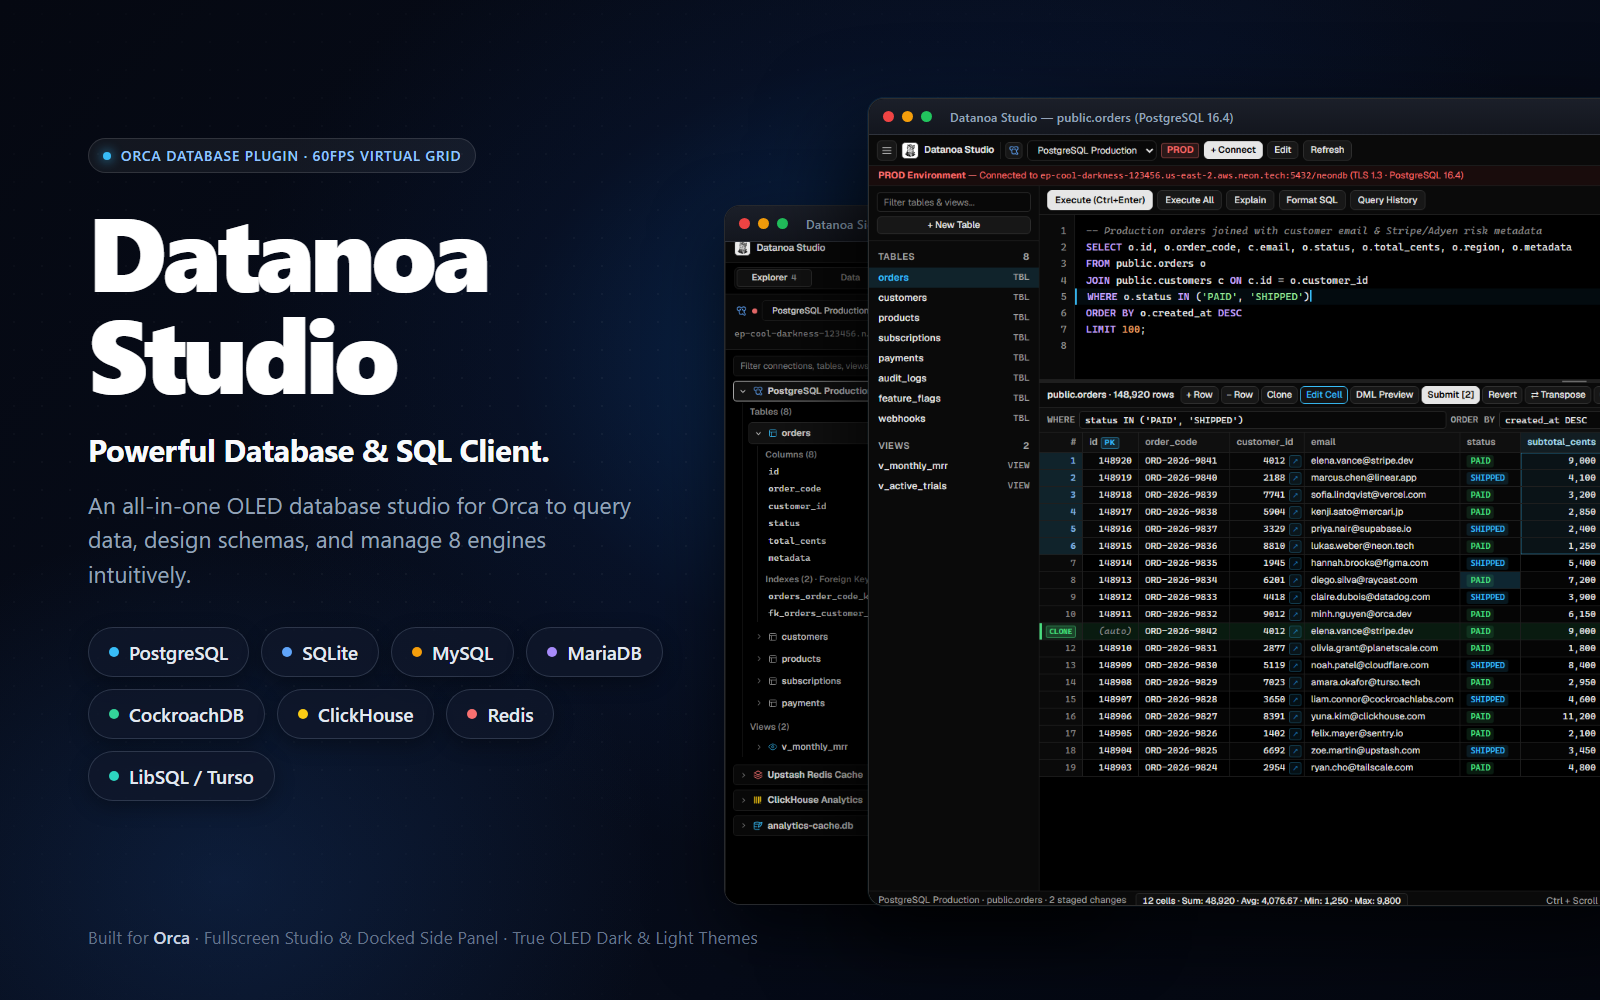
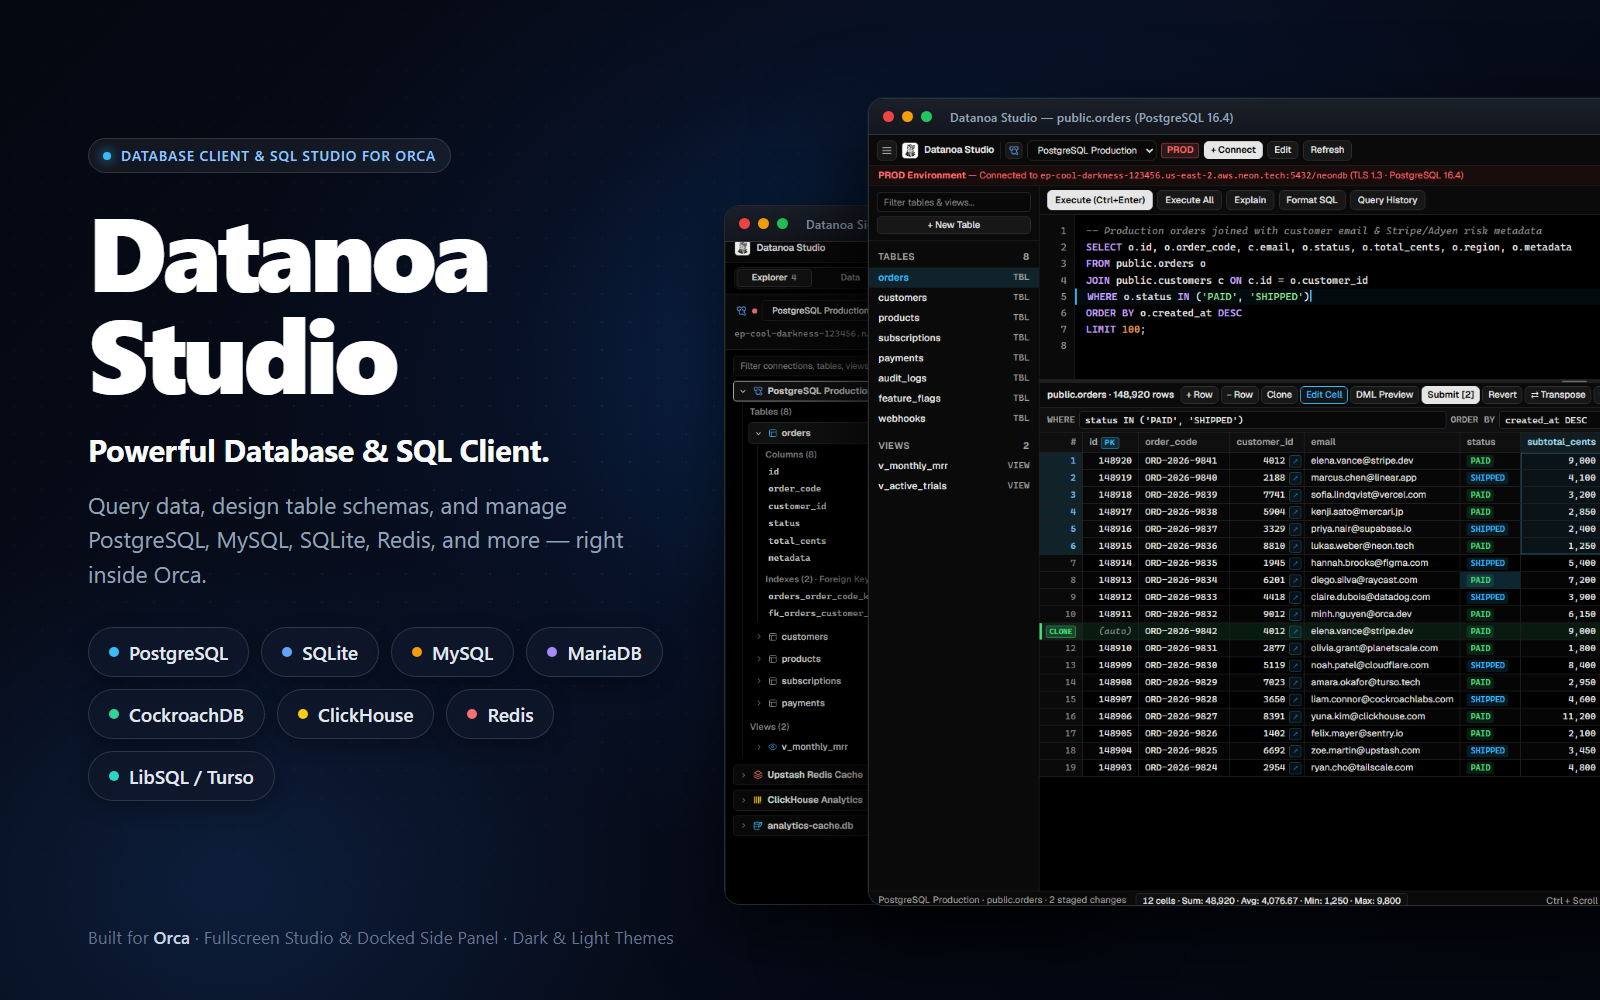
docs: focus plugin description, cover copy, and README on core database client workflows

Changed region(s): [[0.0625, 0.496, 0.4062, 0.589], [0.0938, 0.124, 0.2812, 0.186], [0.3125, 0.93, 0.4688, 0.961]]

diff --git a/README.md b/README.md
@@ -2,35 +2,36 @@
   <img src="assets/icon.png" alt="Datanoa Logo" width="88" height="88" />
 </p>
 
-<h1 align="center">Datanoa — Multi-Engine OLED Database Studio for Orca</h1>
+<h1 align="center">Datanoa — Database Client &amp; SQL Studio for Orca</h1>
 
 <p align="center">
-  <strong>JetBrains DataGrip-grade schema explorer, 60fps virtualized data grid, visual table designer, and multi-statement SQL &amp; Redis console built natively for Orca's True OLED (<code>#000000</code>) and Light themes.</strong>
+  <strong>Browse tables, edit data inline, design schemas visually, and run SQL or Redis queries across 8 database engines — right inside Orca.</strong>
 </p>
 
 <p align="center">
   <a href="https://onorca.dev"><img src="https://img.shields.io/badge/Orca-%3E%3D1.4.248-000000?style=flat-square&logoColor=white&labelColor=141414&color=38bdf8" alt="Orca >=1.4.248" /></a>
-  <a href="#8-supported-database-engines"><img src="https://img.shields.io/badge/Engines-8%20Databases-4ade80?style=flat-square&labelColor=141414" alt="8 Database Engines" /></a>
-  <a href="#60fps-virtualized-grid-bulk-operations--power-utilities"><img src="https://img.shields.io/badge/Virtual%20Grid-60fps-60a5fa?style=flat-square&labelColor=141414" alt="60fps Virtual Grid" /></a>
+  <a href="#8-supported-database-engines"><img src="https://img.shields.io/badge/Databases-8%20Engines-4ade80?style=flat-square&labelColor=141414" alt="8 Database Engines" /></a>
+  <a href="#data-grid-bulk-operations--sql-console"><img src="https://img.shields.io/badge/Editor-SQL%20%26%20Schema%20Designer-60a5fa?style=flat-square&labelColor=141414" alt="SQL & Schema Designer" /></a>
   <a href="LICENSE"><img src="https://img.shields.io/badge/License-MIT-e6e6e6?style=flat-square&labelColor=141414" alt="MIT License" /></a>
   <a href="https://github.com/Thanhh2615/datanoa/issues/new/choose"><img src="https://img.shields.io/badge/Feedback-Report%20Bug%20%2F%20Request%20Feature-fbbf24?style=flat-square&labelColor=141414" alt="Report Bug / Request Feature" /></a>
 </p>
 
 <p align="center">
-  <img src="images/cover.png" alt="Datanoa Studio Split View — OLED PostgreSQL Console, 60fps Virtual Data Grid, Multi-Cell Aggregates & JSON Value Inspector" width="100%" />
+  <img src="images/cover.png" alt="Datanoa Studio — Database Client and SQL Studio for Orca" width="100%" />
 </p>
 
 ---
 
 ## Why Datanoa?
 
-Most editor database extensions force a trade-off between lightweight single-engine viewers and heavy external Java/Electron GUI apps. **Datanoa** brings a complete, zero-stub multi-engine database workstation directly inside **Orca** (`>=1.4.248`) across two synchronized surfaces:
+Switch less between your code editor and heavy external database tools. **Datanoa** brings a complete database client, schema designer, and SQL/Redis workspace directly into **Orca** (`>=1.4.248`):
 
-- **Dual-Surface Architecture:** Work side-by-side with your code in the **Orca Right Sidebar Panel**, or pop open a standalone fullscreen **Datanoa Studio** tab (`.datanoa` / `.sql`) from Orca's `+` Tab Bar menu.
-- **8 Database Engines Out of the Box:** Connect to **SQLite**, **PostgreSQL**, **MySQL**, **MariaDB**, **CockroachDB**, **ClickHouse**, **Redis**, and **LibSQL / Turso** with zero native compilation or external CLI dependencies.
-- **True Orca OLED (`#000000`) & Light Mode Parity:** Inherits `--orca-*` host tokens directly without overriding `:root` theme variables, embeds Orca Desktop's bundled `Geist` variable font (`Geist-Variable.woff2`) for zero-FOUT typography parity, and switches cleanly between True OLED dark mode and `html.light`.
-- **60fps Windowed Virtualization:** Smoothly scroll, filter, pin columns, and drag-select rectangular cell ranges across 10,000-row pages at 60fps with live status-bar math aggregates (`Count`, `Sum`, `Avg`, `Min`, `Max`).
-- **Transactional Safety First:** Stage inline edits, cloned rows, bulk fills, pasted TSV/CSV rows, and visual schema migrations locally, preview the exact dialect-quoted DML/DDL statements, and commit atomically inside database transactions with optimistic concurrency verification.
+- **Side Panel & Fullscreen Studio:** Inspect tables right beside your code in Orca's **Right Sidebar Panel**, or open a fullscreen **Datanoa Studio** tab (`.datanoa` / `.sql`) straight from Orca's `+` Tab Bar menu.
+- **8 Database Engines Built In:** Connect to **SQLite**, **PostgreSQL**, **MySQL**, **MariaDB**, **CockroachDB**, **ClickHouse**, **Redis**, and **LibSQL / Turso** with zero native compilation or external CLI dependencies.
+- **Auto-Discovery & One-Click URI Setup:** Paste a connection URI (`Neon`, `Supabase`, `Turso`, `Upstash`, `ClickHouse Cloud`, `CockroachDB Cloud`, `RDS`) or auto-detect `.env` connection strings and local `.db` / `.sqlite` files in your workspace.
+- **Fast Virtualized Data Grid:** Smoothly browse, filter, sort, pin columns, and drag-select ranges across large tables with instant status-bar math aggregates (`Count`, `Sum`, `Avg`, `Min`, `Max`).
+- **Safe Transactional Editing & Schema Design:** Stage inline cell edits, cloned/pasted rows, and visual `ALTER TABLE` schema migrations locally, review the exact generated SQL, and commit atomically inside transactions with optimistic concurrency checks.
+- **Native Orca Look & Feel:** Automatically adapts to Orca's Dark and Light themes (`--orca-*` design tokens and `Geist` typography).
 
 ---
 
@@ -86,12 +87,12 @@ Datanoa integrates into Orca across four natural entry points:
 
 ## Visual Walkthrough & Screenshots
 
-### 1. OLED Split View — SQL Console, 60fps Virtual Data Grid & Value/JSON Inspector
+### 1. Split View — SQL Console, Interactive Data Grid & Value/JSON Inspector
 
-Write multi-statement SQL with dialect-aware syntax highlighting and smart column/alias autocomplete in the top pane while browsing and staging edits on hundreds of thousands of rows below — complete with live multi-cell selection math (`Count`, `Sum`, `Avg`, `Min`, `Max`), `CLONE` row badges, Foreign Key jump badges (`↗`), and a dockable **Value / JSON Inspector**.
+Write multi-statement SQL with dialect-aware syntax highlighting and smart column/alias autocomplete in the top pane while browsing and staging edits on large tables below — complete with live multi-cell selection math (`Count`, `Sum`, `Avg`, `Min`, `Max`), `CLONE` row badges, Foreign Key jump badges (`↗`), and a dockable **Value / JSON Inspector**.
 
 <p align="center">
-  <img src="images/studio-split-view.png" alt="Datanoa Studio OLED Split View with SQL Console, 60fps Virtual Data Grid, Multi-Cell Selection Aggregates & JSON Value Inspector" width="100%" />
+  <img src="images/studio-split-view.png" alt="Datanoa Studio Split View with SQL Console, Interactive Data Grid, Multi-Cell Selection Aggregates & JSON Value Inspector" width="100%" />
 </p>
 
 ### 2. 8-Engine Connection Manager, URI Quick-Fill & Workspace Auto-Detect
@@ -118,17 +119,17 @@ Switch Orca to a light theme and Datanoa adapts automatically. Collapse the left
   <img src="images/studio-light-theme.png" alt="Datanoa Studio in Clean Light Theme with Horizontal Top Table Switcher Bar, Pinned Columns & Find Highlight" width="100%" />
 </p>
 
-### 5. Docked Side Panel — Multi-Engine Explorer, 60fps Data Grid & Quick SQL Runner
+### 5. Docked Side Panel — Schema Explorer, Data Grid & Quick SQL Runner
 
 Use the **Datanoa Side Panel** without leaving your active code editor: expand multiple database connections simultaneously in the **Explorer** tree, stage and filter data in the virtualized **Data** tab with live multi-cell selection math, or run multi-statement queries in the **SQL** tab with persistent history and 1-click exports.
 
 <p align="center">
-  <img src="images/side-panel-explorer.png" alt="Datanoa Side Panel Showcase — Multi-Engine Explorer Tree, 60fps Virtualized Data Grid & Quick SQL Runner" width="100%" />
+  <img src="images/side-panel-explorer.png" alt="Datanoa Side Panel Showcase — Schema Explorer Tree, Virtualized Data Grid & Quick SQL Runner" width="100%" />
 </p>
 
 ---
 
-## 60fps Virtualized Grid, Bulk Operations & Power Utilities
+## Data Grid, Bulk Operations & SQL Console
 
 - **Rectangular Multi-Cell Selection & Live Math Aggregates:** Drag across cells, Shift-click ranges, click row numbers or column headers, or press `Ctrl+A`. The status bar immediately computes **`Count`**, **`Sum`**, **`Avg`**, **`Min`**, and **`Max`** across numeric cells (click the aggregate pill to copy statistics to the clipboard).
 - **Multi-Format Copy, Paste & Export:**
